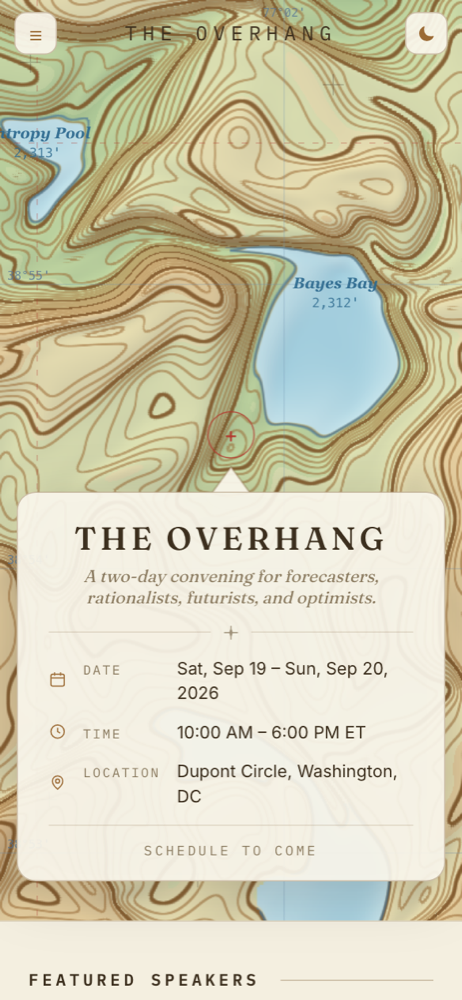
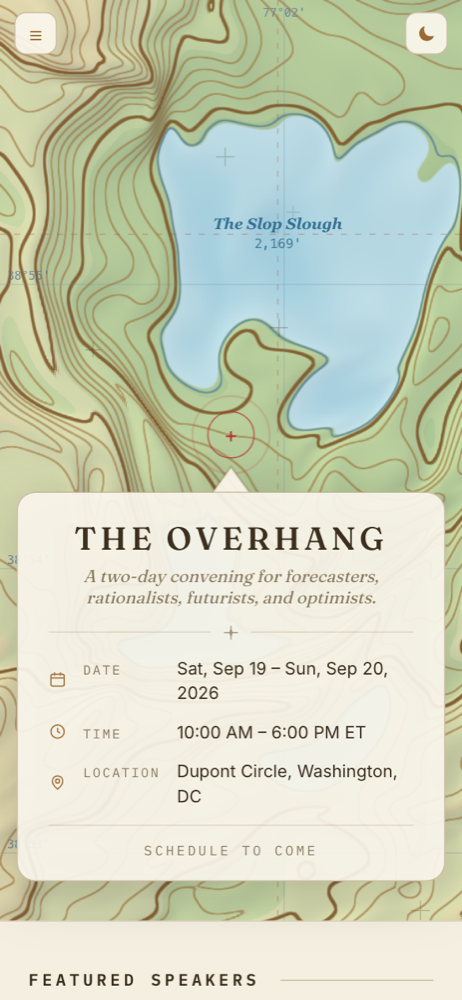
fix: mobile header wordmark only shows once scrolled; wider label spacing
The wordmark fades in with the header's scrolled backdrop instead of
floating over the bare map, and the POI spacing floor rises to 320px
so long labels can't collide on phones.

diff --git a/src/components/Header.module.css b/src/components/Header.module.css
@@ -72,7 +72,8 @@
 }
 .iconBtn:hover { filter: brightness(1.1); }
 
-/* mobile-only wordmark, larger per spec */
+/* mobile-only wordmark, larger per spec; hidden until the header
+   gains its scrolled backdrop so it doesn't float over the bare map */
 .mobileTitle {
   display: none;
   font-family: var(--font-mono);
@@ -81,7 +82,10 @@
   text-transform: uppercase;
   color: var(--ink);
   white-space: nowrap;
+  opacity: 0;
+  transition: opacity 0.3s ease;
 }
+.scrolled .mobileTitle { opacity: 1; }
 
 .menu {
   position: absolute;

diff --git a/src/lib/topo.ts b/src/lib/topo.ts
@@ -684,7 +684,7 @@ export function createTopo(
     const matchR = Math.min(W, H) * 0.16;
     // labels are ~200px wide regardless of screen, so keep spacing tied to
     // the larger dimension — narrow phones otherwise stack labels
-    const minDist = Math.max(260, Math.max(W, H) * 0.22);
+    const minDist = Math.max(320, Math.max(W, H) * 0.22);
 
     for (const f of features) f.matched = false;
     for (const f of features) {
